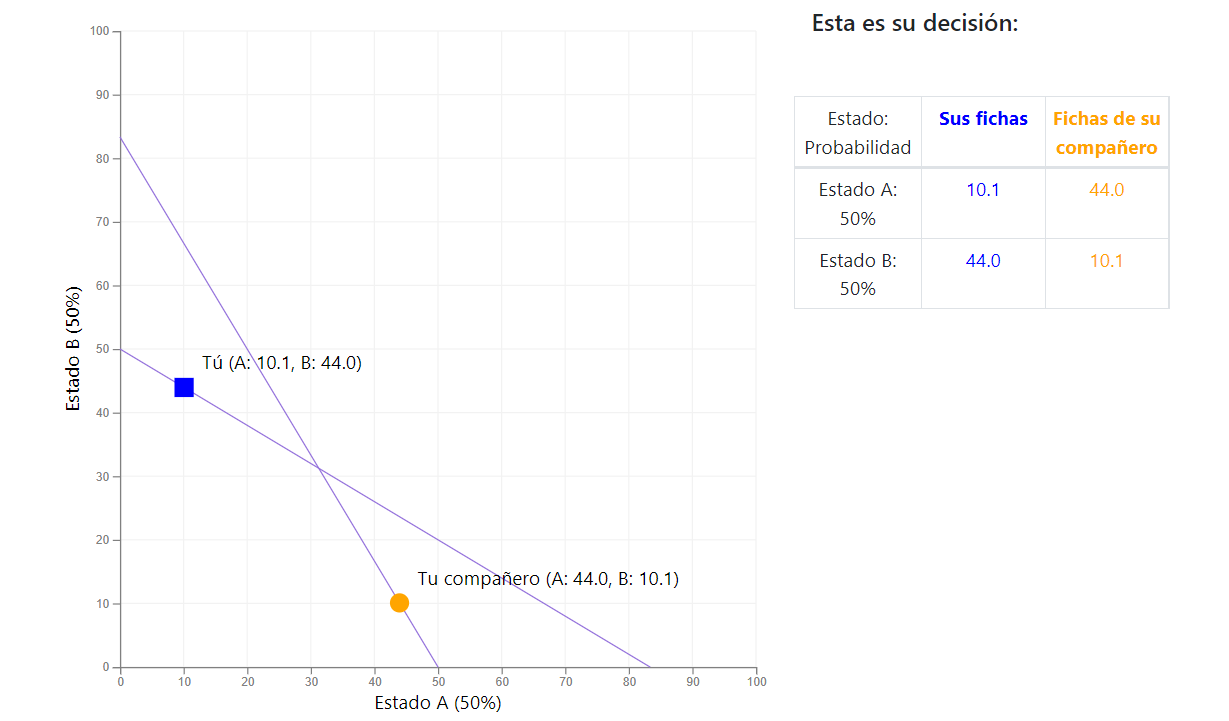
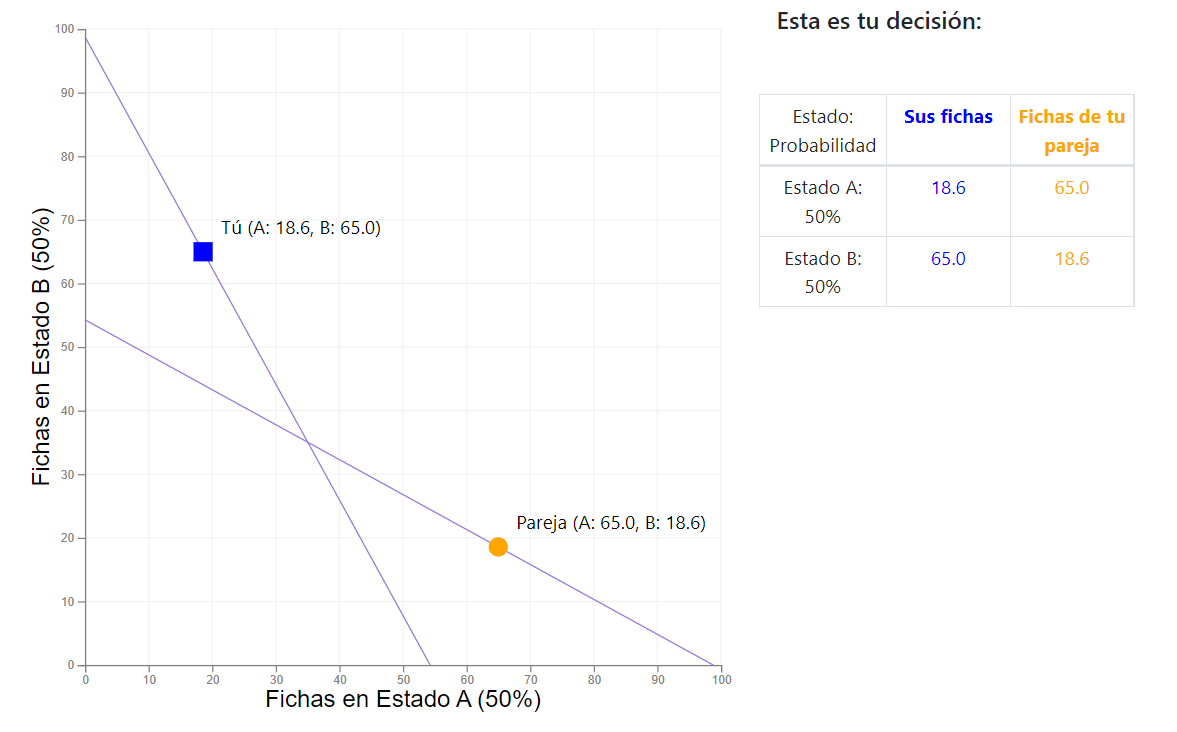
new examples for 3 tasks

diff --git a/RiskAndFairness_espanol/templates/RiskAndFairness_espanol/sec.html b/RiskAndFairness_espanol/templates/RiskAndFairness_espanol/sec.html
@@ -94,8 +94,8 @@
                 tanto usted como su pareja comparten la misma fortuna. <b>Es decir, en cada estado, la cantidad de fichas que ambos reciben es la misma.</b> 
                 Dado que en esta tarea ambos enfrentan la misma suerte,
                 su cuadrado azul y el círculo naranja de su pareja siempre se ubican en la misma posición.
-                En el ejemplo, ambos están en el lugar (50, 16.8). Esto significa que, si ocurre el Estado A, ambos
-                (usted y su pareja) obtendrán 50 fichas cada uno y, si ocurre el Estado B, cada uno obtendrá 16.8 fichas.
+                En el ejemplo, ambos están en el lugar (16.9, 68.1). Esto significa que, si ocurre el Estado A, ambos
+                (usted y su pareja) obtendrán 16.9 fichas cada uno y, si ocurre el Estado B, cada uno obtendrá 68.1 fichas.
             </p>
             <p>
                 Al comienzo de cada ronda de decisión, el cuadrado y el círculo aparecerán en una posición aleatoria.
@@ -114,10 +114,10 @@
                 Estado B. De manera similar, lo que usted obtendría en el Estado B es lo que obtendría su
                 pareja en el Estado A.</b> Dado que usted y su pareja enfrentan fortunas opuestas, su cuadrado
                 azul y el círculo naranja de su pareja siempre están en posiciones especulares en el
-                gráfico. En la captura de pantalla, por ejemplo, su cuadrado está en (Estado A = 11.7, B = 29.5)
-                y el círculo de su pareja en (Estado A = 29.5, B = 11.7). Esto significa que, si ocurre el
-                Estado A, usted recibe 11.7 y su pareja obtiene 29.5; y, si ocurre el Estado B, usted obtiene
-                29.5 y su pareja obtiene 11.7.
+                gráfico. En la captura de pantalla, por ejemplo, su cuadrado está en (Estado A = 24.8, B = 50.3)
+                y el círculo de su pareja en (Estado A = 50.3, B = 24.8). Esto significa que, si ocurre el
+                Estado A, usted recibe 24.8 y su pareja obtiene 50.3; y, si ocurre el Estado B, usted obtiene
+                50.3 y su pareja obtiene 24.8.
             </p>
             <p>    
                 Al comienzo de cada ronda de decisión, el cuadrado y el círculo
@@ -152,9 +152,9 @@
                 <b>Para esta tarea, usted debe elegir su propio sorteo. 
                 La fortuna de su pareja es fija, pues recibirá 0 con seguridad.</b>
                 En la captura de pantalla, por ejemplo, su cuadrado 
-                está en (Estado A = 6, B = 32) y el círculo de su pareja en (Estado A = 0, B = 0). 
-                Esto significa que, si sucede el Estado A, usted recibe 6 y su pareja obtiene 0; y si 
-                ocurre el estado B, usted recibe 32 y su pareja obtiene 0. Puedes mover tu cuadrado pero no 
+                está en (Estado A = 11.0, B = 78.7) y el círculo de su pareja en (Estado A = 0, B = 0). 
+                Esto significa que, si sucede el Estado A, usted recibe 11.0 y su pareja obtiene 0; y si 
+                ocurre el estado B, usted recibe 78.7 y su pareja obtiene 0. Puedes mover tu cuadrado pero no 
                 puedes mover el círculo de tu pareja.              
             </p>
             <p>

diff --git a/RiskAndFairness_espanol/templates/RiskAndFairness_espanol/ControlQuestions.html b/RiskAndFairness_espanol/templates/RiskAndFairness_espanol/ControlQuestions.html
@@ -42,11 +42,11 @@
 
         var modemap = {
             'probability': {you: 70.0, partner: 10.0},
-            'sec_1bl_1ch': {you: 20.1, partner: 20.1},
+            'sec_1bl_1ch': {you: 9.5, partner: 9.5},
             'sec_1bl_2ch': {you: 20.0, partner: 10.0},
-            'sec_2bl_1ch': {you: 10.1, partner: 44.0},
+            'sec_2bl_1ch': {you: 18.6, partner: 65.0},
             'sec_ownrisk': {you_a: 30.0, you_b: 32.0},
-            'sec_ownrisk_fixedother': {you: 20.1, partner: 30.0},
+            'sec_ownrisk_fixedother': {you: 20.1, partner: 0.0},
             'sec_otherrisk_ownfixed': {you: 30.0, partner: 26.0},
             'det_giv': {you: 50.1, partner: 25.0}
         }
